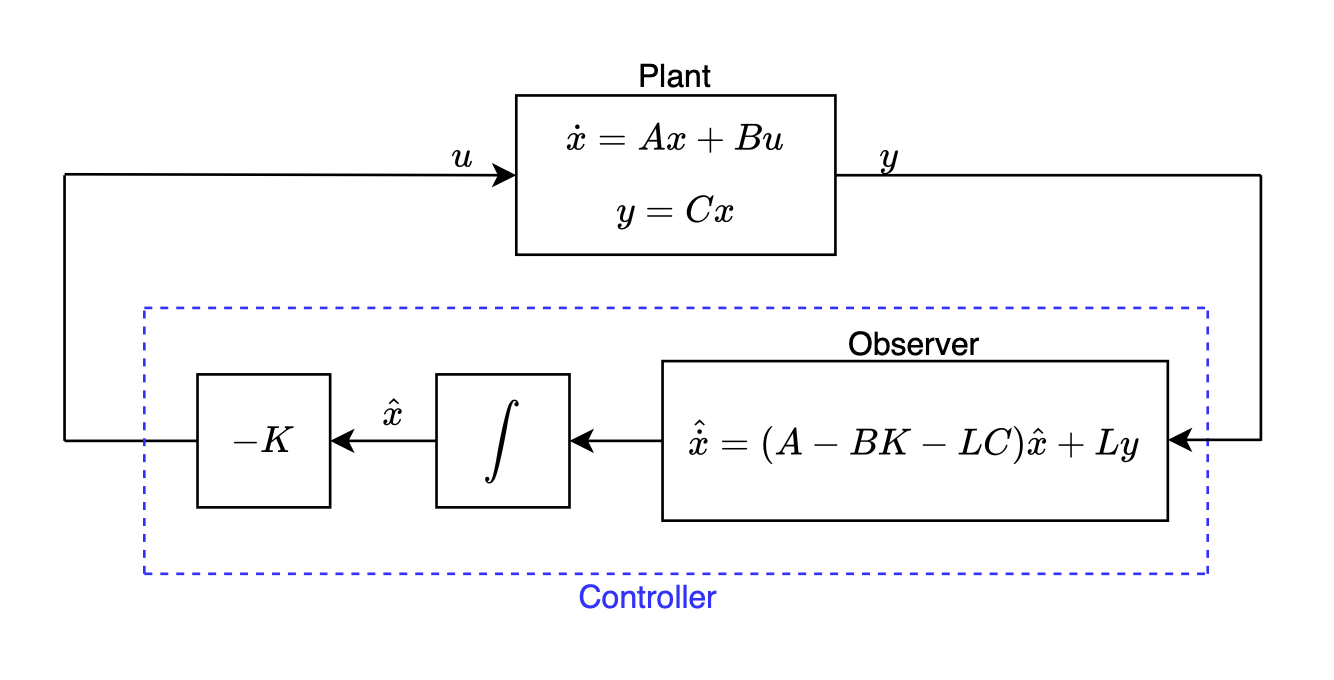
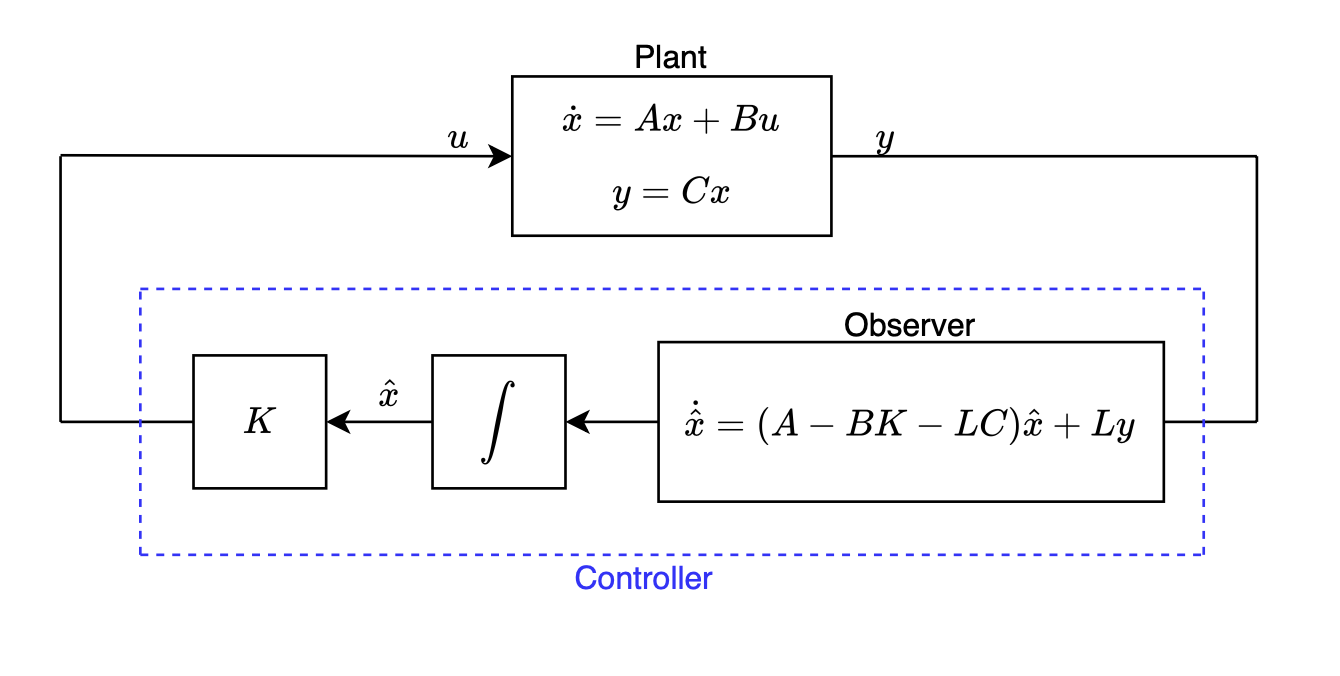
Update

diff --git a/_projects/inverted_pendulum_2.md b/_projects/inverted_pendulum_2.md
@@ -136,7 +136,7 @@ y=Cx
 $$
 
 $$
-\hat{\dot{x}}=(A-BK-LC)\hat{x}+Ly
+\dot{\hat{x}}=(A-BK-LC)\hat{x}+Ly
 $$
 
 $$
